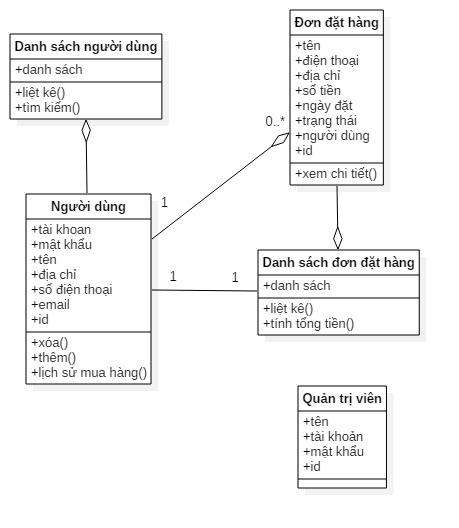
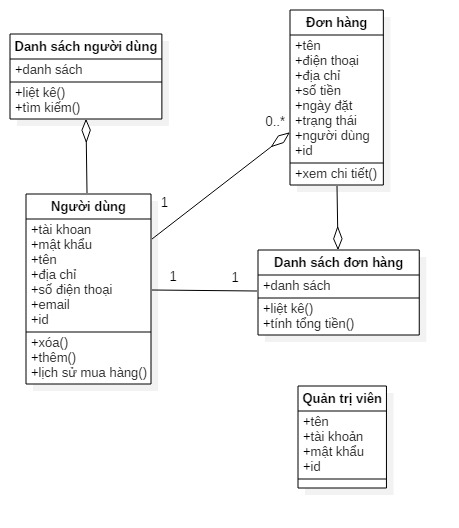
add order_list crc, fix class names in bich.mdj

Changed region(s): [[0.549, 0.4848, 0.915, 0.5152], [0.6405, 0.0303, 0.8235, 0.0606]]

diff --git a/pages/crc/order_list.html b/pages/crc/order_list.html
@@ -1,4 +1,4 @@
-<!DOCTYPE html>
+<!DOCTYPE html>
 <html>
 <head>
   <title>Maya - CD Store Management</title>
@@ -14,24 +14,24 @@
     <ol class="breadcrumb">
       <li class="breadcrumb-item"><a href="../index.html">Trang chủ</a></li>
       <li class="breadcrumb-item active">
-        CRC Đơn hàng
+        CRC Danh sách đơn hàng
       </li>
     </ol>
   </div>
 
   <div class="body animated fadeIn">
-    <div class="box mt-3">
+    <div class="box">
       <strong>Mặt trước</strong>
       <table>
         <tbody>
           <tr>
             <td colspan="2">
               <strong>Tên lớp:</strong>
-              Đơn hàng
+              Danh sách đơn hàng
             </td>
             <td colspan="1">
               <strong>ID:</strong>
-              22
+              41
             </td>
             <td colspan="1">
               <strong>Loại:</strong>
@@ -41,29 +41,26 @@
           <tr>
             <td colspan="2">
               <strong>Mô tả:</strong>
-              Quản lý cửa hàng, ứng dụng.
+              Danh sách các đơn hàng
             </td>
             <td colspan="2">
               <strong>Ca sử dụng liên quan:</strong>
-              6,7,8,12
+              12
             </td>
           </tr>
           <tr>
             <td colspan="2">
               <strong>Trách nhiệm:</strong>
               <ul>
-                <li>Thay đổi tình trạng đơn hàng</li>
-		            <li> Thay đổi chi tiết đơn hàng </li>
+                <li>Liệt kê danh sách đơn hàng (tất cả hoặc scope theo người dùng)</li>
+                <li>Tính tổng tiền của tất cả đơn hàng</li>
               </ul>
             </td>
             <td colspan="2">
               <strong>Đối tác:</strong>
               <ul>
-                <li>Quản trị viên</li>
-		            <li>Đặt Hàng</li>
-		            <li>Kho Hàng</li>
+                <li>Đơn hàng</li>
                 <li>Người dùng</li>
-                <li>Danh sách đơn đặt hàng</li>
               </ul>
             </td>
           </tr>
@@ -77,16 +74,7 @@
             <td>
               <strong>Các thuộc tính:</strong>
               <ul>
-                <li>ID đơn hàng</li>
-                <li>tên người đặt hàng</li>
-                <li>số điện thoại người đặt hàng</li>
-                <li>số điện thoại người đặt hàng</li>
-                <li>ngày đặt hàng</li>
-                <li>địa chỉ giao hàng</li>
-                <li>phương thức giao hàng</li>
-                <li>phương thức thanh toán</li>
-		            <li>giá trị</li>
-		            <li>trạng thái</li>
+                <li>Danh sách</li>
               </ul>
             </td>
           </tr>
@@ -95,8 +83,8 @@
               <strong>Mối quan hệ:</strong>
               <ul>
                 <li>Khái quát hóa: <!-- TODO --></li>
-                <li>Tổ hợp: Danh sách đơn hàng</li>
-                <li>Các mối quan hệ khác: <!-- TODO --></li>
+                <li>Tổ hợp: <!-- TODO --></li>
+                <li>Các mối quan hệ khác: liên quan - Người dùng</li>
               </ul>
             </td>
           </tr>

diff --git a/pages/crc/order.html b/pages/crc/order.html
@@ -14,7 +14,7 @@
     <ol class="breadcrumb">
       <li class="breadcrumb-item"><a href="../index.html">Trang chủ</a></li>
       <li class="breadcrumb-item active">
-        CRC Quản trị viên
+        CRC Đặt hàng
       </li>
     </ol>
   </div>
@@ -53,15 +53,15 @@
               <strong>Trách nhiệm:</strong>
               <ul>
                 <li>Tiếp nhận và gửi yêu cầu của khách</li>
-		<li>Thông báo về tình trạng yêu cầu của khách</li>
+		            <li>Thông báo về tình trạng yêu cầu của khách</li>
               </ul>
             </td>
             <td colspan="2">
               <strong>Đối tác:</strong>
               <ul>
                 <li>Quản trị viên</li>
-		<li>Đơn Hàng</li>
-		<li>Kho Hàng</li>
+		            <li>Đơn Hàng</li>
+		            <li>Kho Hàng</li>
               </ul>
             </td>
           </tr>

diff --git a/pages/manage_user.html b/pages/manage_user.html
@@ -33,10 +33,10 @@
       <a href="crc/admin.html">Quản trị viên</a>
       <span>/</span>
 
-      <a href="crc/order.html">Đơn đặt hàng</a>
+      <a href="crc/order.html">Đơn hàng</a>
       <span>/</span>
 
-      <a href="crc/order_list.html">Danh sách đơn đặt hàng</a>
+      <a href="crc/order_list.html">Danh sách đơn hàng</a>
     </div>
 
     <div class="box mt-3">
